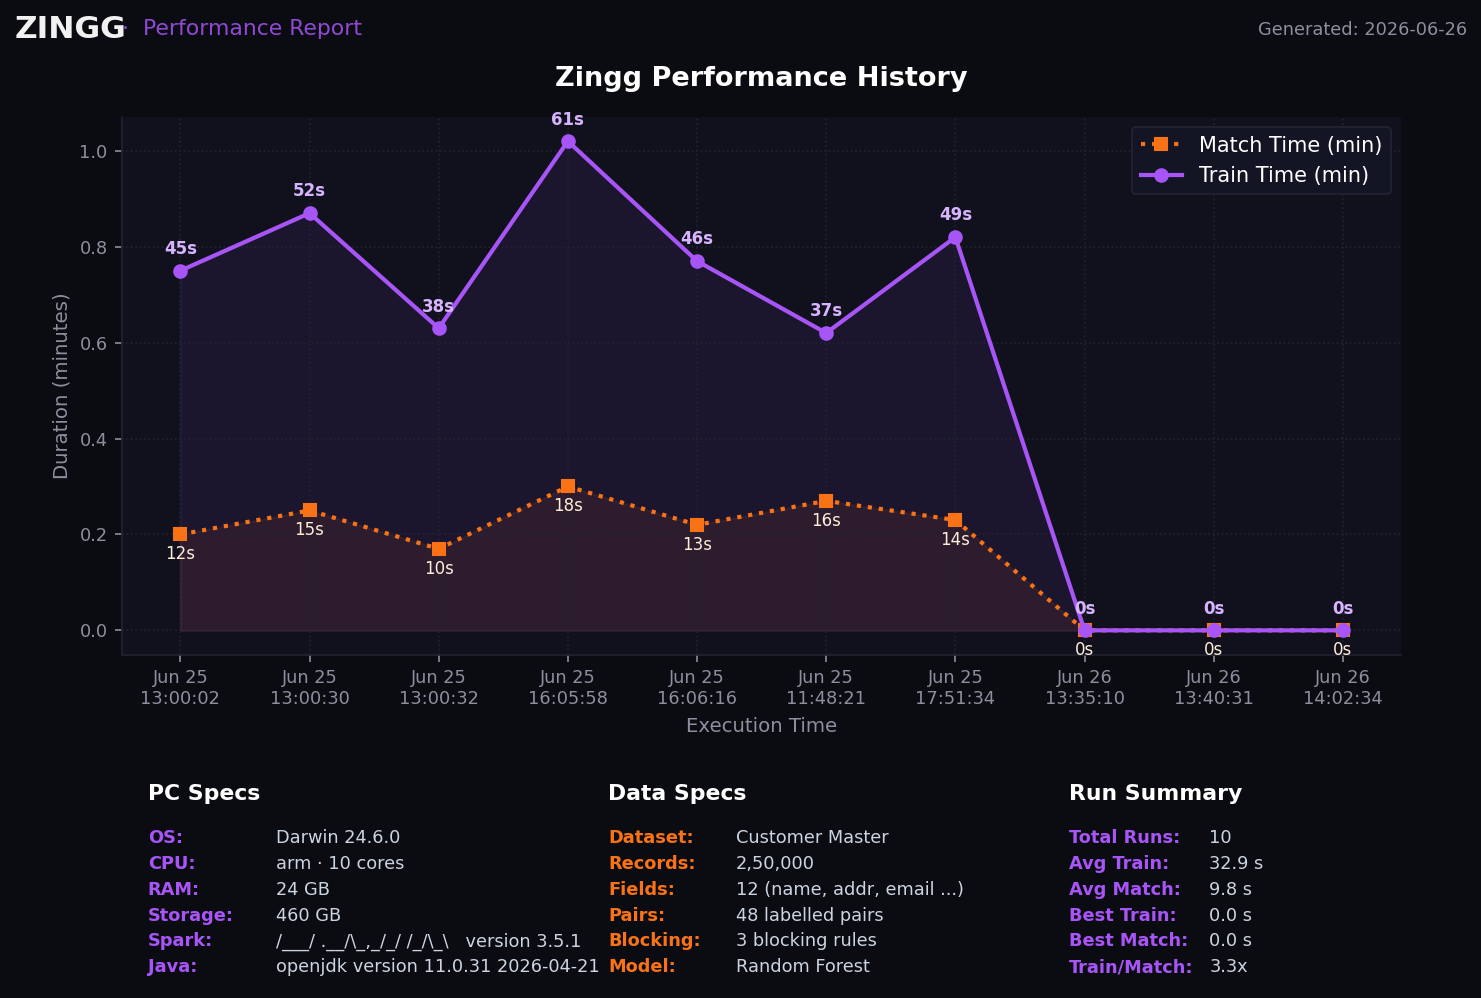
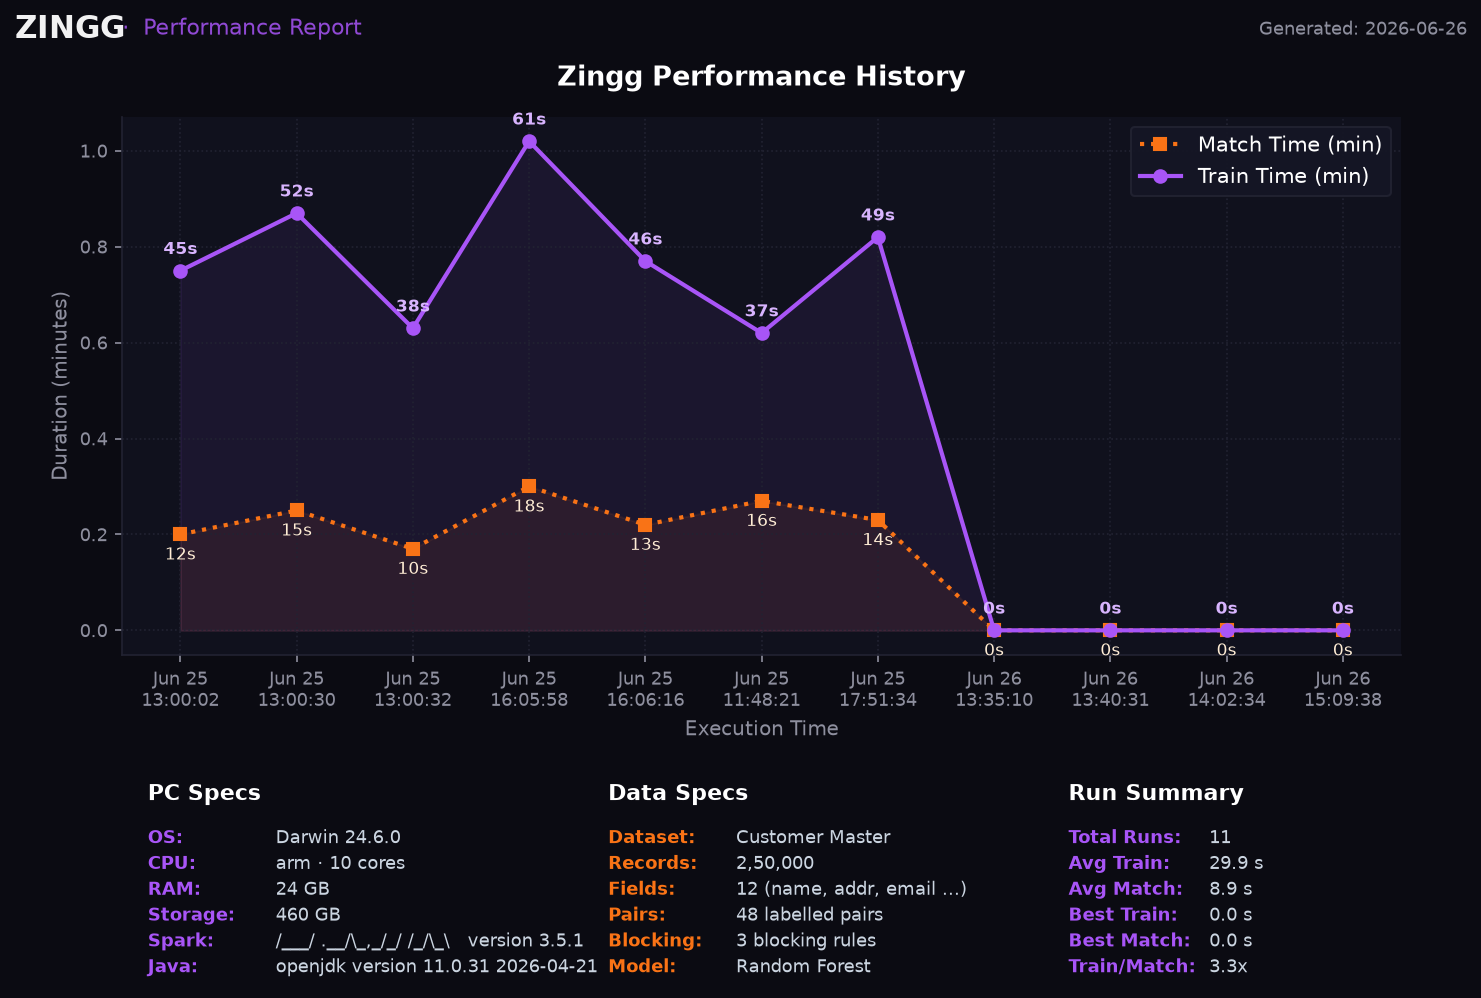
feat: configure dataset variations and integrate multi-dataset plotting

diff --git a/plot_result.py b/plot_result.py
@@ -3,6 +3,7 @@ import matplotlib.pyplot as plt
 import os
 import glob
 import json
+import re
 from datetime import datetime
 
 def format_timestamp(row):
@@ -41,39 +42,43 @@ def generate_chart():
         except Exception as e:
             print(f"Error loading config file: {config_path}: {e}")
 
-    # 2. Read report files
-    report_files = sorted(glob.glob("*_report.csv"))
-    if not report_files:
-        print("No performance report files found.")
-        return
-
-    dataframes = {}
-    total_runs = 0
-    for file_path in report_files:
-        phase = os.path.basename(file_path).replace("_report.csv", "")
-        df = pd.read_csv(file_path)
+    # 2. Read report files — keyed by (dataset, phase)
+    KNOWN_PHASES = ["train", "match"]
+    series = {}
+    for file_path in sorted(glob.glob("*_report.csv")):
+        basename = os.path.basename(file_path).replace("_report.csv", "")
+        phase = next((p for p in KNOWN_PHASES if basename == p or basename.endswith(f"_{p}")), None)
+        if phase is None:
+            continue
+        dataset = basename[: -(len(phase) + 1)] if basename != phase else "default"
+        try:
+            df = pd.read_csv(file_path)
+        except Exception as e:
+            print(f"Skipping {file_path}: {e}")
+            continue
         if not df.empty:
             df["timestamp"] = df.apply(format_timestamp, axis=1)
-            dataframes[phase] = df
-            total_runs = max(total_runs, len(df))
+            series[(dataset, phase)] = df
 
-    if not dataframes:
-        print("All report files are empty.")
+    if not series:
+        print("No report data found.")
         return
 
-    # 3. Calculate Run Summary statistics
-    avg_train_sec = 0.0
-    best_train_sec = 0.0
-    if "train" in dataframes and not dataframes["train"].empty:
-        avg_train_sec = dataframes["train"]["duration"].mean() * 60
-        best_train_sec = dataframes["train"]["duration"].min() * 60
+    all_datasets = sorted(set(d for d, _ in series.keys()))
+    total_runs = max(len(df) for df in series.values())
 
-    avg_match_sec = 0.0
-    best_match_sec = 0.0
-    if "match" in dataframes and not dataframes["match"].empty:
-        avg_match_sec = dataframes["match"]["duration"].mean() * 60
-        best_match_sec = dataframes["match"]["duration"].min() * 60
+    # 3. Calculate Run Summary statistics (aggregate across all datasets)
+    def concat_phase(phase_name):
+        frames = [df for (d, p), df in series.items() if p == phase_name]
+        return pd.concat(frames, ignore_index=True) if frames else None
 
+    train_all = concat_phase("train")
+    match_all = concat_phase("match")
+
+    avg_train_sec = (train_all["duration"].mean() * 60) if train_all is not None else 0.0
+    best_train_sec = (train_all["duration"].min() * 60) if train_all is not None else 0.0
+    avg_match_sec = (match_all["duration"].mean() * 60) if match_all is not None else 0.0
+    best_match_sec = (match_all["duration"].min() * 60) if match_all is not None else 0.0
     ratio = (avg_train_sec / avg_match_sec) if avg_match_sec > 0 else 0.0
 
     # 4. Set up the figure & dark styles
@@ -85,50 +90,34 @@ def generate_chart():
     ax = fig.add_subplot(gs[0])
     ax.set_facecolor('#10111d')
 
-    # Color & Line mapping
-    COLOR_MAP = {
-        "train": "#a855f7",  # Purple
-        "match": "#f97316"   # Orange
-    }
-    STYLE_MAP = {
-        "train": ("-", "o"),  # Solid, Circle
-        "match": (":", "s")   # Dotted, Square
-    }
-    DEFAULT_COLORS = ["#06b6d4", "#ec4899", "#10b981", "#3b82f6"]
+    # Color by phase (semantic), line style + marker by dataset
+    PHASE_COLORS = {"train": "#a855f7", "match": "#f97316"}
+    PHASE_ANNOT  = {"train": (8, '#d8b4fe', 'semibold'), "match": (-12, '#ffedd5', 'normal')}
+    DATASET_LINESTYLES = ["-", "--", "-."]
+    DATASET_MARKERS    = ["o", "^",  "s"]
 
-    color_idx = 0
+    dataset_idx = {d: i for i, d in enumerate(all_datasets)}
 
-    # 5. Plot each phase
-    for phase, df in dataframes.items():
-        color = COLOR_MAP.get(phase)
-        if not color:
-            color = DEFAULT_COLORS[color_idx % len(DEFAULT_COLORS)]
-            color_idx += 1
+    # 5. Plot each (dataset, phase) series
+    for (dataset, phase), df in sorted(series.items()):
+        color     = PHASE_COLORS.get(phase, "#06b6d4")
+        idx       = dataset_idx[dataset]
+        linestyle = DATASET_LINESTYLES[idx % len(DATASET_LINESTYLES)]
+        marker    = DATASET_MARKERS[idx % len(DATASET_MARKERS)]
+        label     = phase.capitalize() if len(all_datasets) == 1 else f"{dataset} {phase}"
 
-        linestyle, marker = STYLE_MAP.get(phase, ("-", "d"))
-        
         x_vals = df["timestamp"]
         y_vals = df["duration"]
 
-        # Plot line
-        ax.plot(x_vals, y_vals, color=color, linestyle=linestyle, linewidth=2, 
-                marker=marker, markersize=6, label=f"{phase.capitalize()} Time (min)")
-
-        # Gradient shading under the line
+        ax.plot(x_vals, y_vals, color=color, linestyle=linestyle, linewidth=2,
+                marker=marker, markersize=6, label=f"{label} (min)")
         ax.fill_between(x_vals, y_vals, color=color, alpha=0.08)
 
-        # Annotate points with seconds for 'train' and 'match'
+        offset, annot_color, weight = PHASE_ANNOT.get(phase, (8, '#ffffff', 'normal'))
         for x_coord, y_coord in zip(x_vals, y_vals):
-            duration_sec = y_coord * 60
-            label_text = f"{duration_sec:.0f}s"
-            
-            # Print label above train points
-            if phase == "train":
-                ax.annotate(label_text, (x_coord, y_coord), textcoords="offset points",
-                            xytext=(0, 8), ha='center', color='#d8b4fe', fontsize=8, fontweight='semibold')
-            elif phase == "match":
-                ax.annotate(label_text, (x_coord, y_coord), textcoords="offset points",
-                            xytext=(0, -12), ha='center', color='#ffedd5', fontsize=8)
+            ax.annotate(f"{y_coord * 60:.0f}s", (x_coord, y_coord),
+                        textcoords="offset points", xytext=(0, offset),
+                        ha='center', color=annot_color, fontsize=8, fontweight=weight)
 
     # 6. Customize axes visual design
     ax.set_title("Zingg Performance History", color='#ffffff', fontsize=13, pad=15, fontweight='bold')

diff --git a/perfTestRunner.py b/perfTestRunner.py
@@ -5,6 +5,7 @@ import csv
 import time
 import os
 import platform
+import re
 import shutil
 import multiprocessing
 from datetime import date, datetime
@@ -77,6 +78,7 @@ def load_test_config():
 # Load configuration
 config = load_test_config()
 testName = config["testName"]
+test_prefix = re.sub(r'\W+', '_', testName).strip('_').lower()
 zinggScript = config["zinggScript"]
 propertyFile = config["propertyFile"]
 reportFile = config["reportFile"]
@@ -101,9 +103,9 @@ def load_results():
     """Load previous test results if available."""
 
     results = {}
-
+    
     for phase in tests.keys():
-        phase_file = f"{phase}_report.csv"
+        phase_file = f"{test_prefix}_{phase}_report.csv"
 
         if os.path.exists(phase_file) and os.path.getsize(phase_file)>0:
             with open(phase_file, "r") as f:
@@ -124,7 +126,7 @@ def save_results(data):
     current_year = str(date.today().year)
 
     for phase, duration in data["results"].items():
-        phase_file = f"{phase}_report.csv"
+        phase_file = f"{test_prefix}_{phase}_report.csv"
 
         # -----YEARLY ROLLOVER CHECK---
         if os.path.exists(phase_file) and os.path.getsize(phase_file)>0:
@@ -136,7 +138,7 @@ def save_results(data):
                     last_run_year = last_row["date"].split("-")[0]
 
                     if current_year != last_run_year:
-                        archive_file = f"{phase}_report_{last_run_year}.csv"
+                        archive_file = f"{test_prefix}_{phase}_report_{last_run_year}.csv"
                         os.rename(phase_file, archive_file)
                         print(f"Year changed! Archived {phase_file} to {archive_file}")   
 
